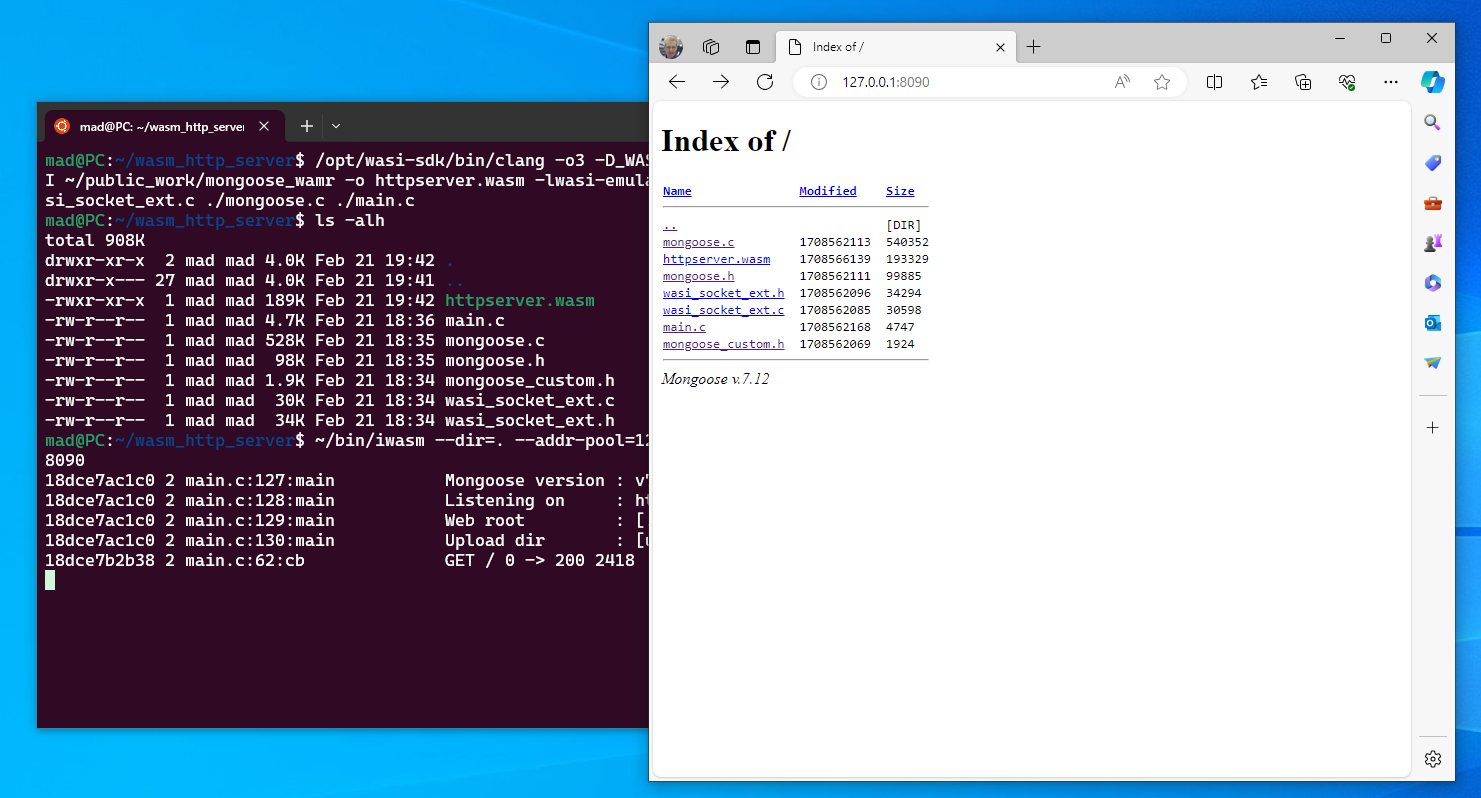
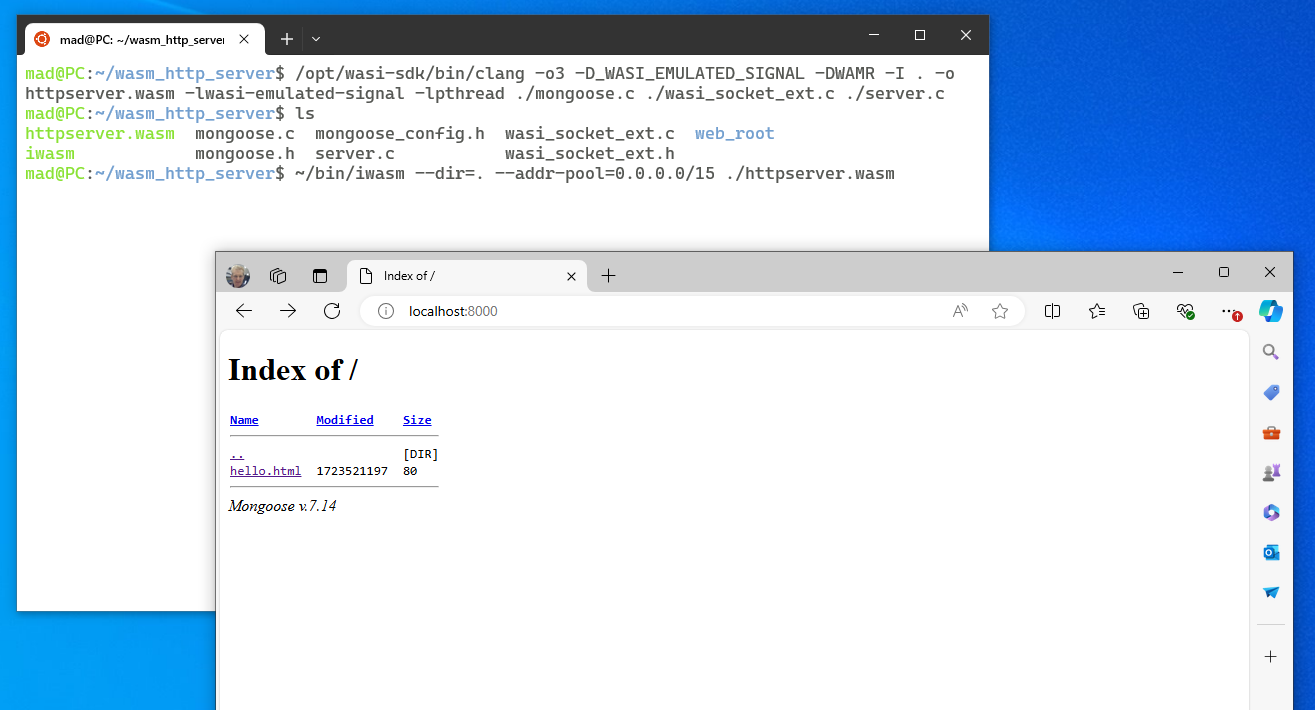
Updates to reflect new Mongoose Project  Updates

diff --git a/mongoose_config.h b/mongoose_config.h
@@ -1,5 +1,5 @@
-#ifndef MONGOOSE_CUSTOM_H_
-#define MONGOOSE_CUSTOM_H_
+#ifndef MONGOOSE_CONFIG_H_
+#define MONGOOSE_CONFIG_H_
 
 /******************************************************************************
  * (c) Copyright 2024 Chris Woods
@@ -78,5 +78,5 @@ extern "C" {
 }
 #endif
 
-#endif// MONGOOSE_CUSTOM_H_
+#endif// MONGOOSE_CONFIG_H_
 

diff --git a/README.md b/README.md
@@ -114,51 +114,73 @@ In order to build a working example http server we're going to need to collect a
   cp ~/mongoose/mongoose.h .
   cp ~/mongoose/mongoose.c .
   ```
-
-* The Mongoose example http server:
-  ```bash
-  cp ~/mongoose/examples/http-server/main.c .
-  ```
-  
-  
-## Updating the `main.c`  
-The Mongoose example http server includes a call to a file operation that WASI doesn't support, we do need to disable this, open up the `main.c` file in your editor of choice and comment out the following four lines, these start at line 107:
+## Creating  `server.c`  
+The Mongoose project used to include an example http server in their repository, however a recent update has removed this. Instead the Mongoose project includes an example HTTP server as a code snippet in their [`readme.md` file](https://github.com/cesanta/mongoose). This is reproduce below for your reference:
 
 ```c
-  // Root directory must not contain double dots. Make it absolute
-  // Do the conversion only if the root dir spec does not contain overrides
-  /* <-- comment out this if statement, realpath not supported
-  if (strchr(s_root_dir, ',') == NULL) {
-    realpath(s_root_dir, path);
-    s_root_dir = path;
+ #include "mongoose.h"   // To build, run: cc main.c mongoose.c
+
+// HTTP server event handler function
+void ev_handler(struct mg_connection *c, int ev, void *ev_data) {
+  if (ev == MG_EV_HTTP_MSG) {
+    struct mg_http_message *hm = (struct mg_http_message *) ev_data;
+    struct mg_http_serve_opts opts = { .root_dir = "./web_root/" };
+    mg_http_serve_dir(c, hm, &opts);
   }
-  */
+}
+
+int main(void) {
+  struct mg_mgr mgr;  // Declare event manager
+  mg_mgr_init(&mgr);  // Initialise event manager
+  mg_http_listen(&mgr, "http://0.0.0.0:8000", ev_handler, NULL);  // Setup listener
+  for (;;) {          // Run an infinite event loop
+    mg_mgr_poll(&mgr, 1000);
+  }
+  return 0;
+}
 ```
 
 ## Building The Server
 Now that everything is ready, we need to build the http server this can be done with the following command:
 
 ```bash
-/opt/wasi-sdk/bin/clang -o3 -D_WASI_EMULATED_SIGNAL -DWAMR -I ./wamr_extra -I . -I ~/public_work/mongoose_wamr -o httpserver.wasm -lwasi-emulated-signal -lpthread -Wl,--allow-undefined ./wasi_soc
-ket_ext.c ./mongoose.c ./main.c
+/opt/wasi-sdk/bin/clang -o3 -D_WASI_EMULATED_SIGNAL -DWAMR -I . -o httpserver.wasm -lwasi-emulated-signal -lpthread ./mongoose.c ./wasi_socket_ext.c ./server.c
 ```
 
-This should produce a `httpserver.wasm` file in your local directory.
+This should produce a `httpserver.wasm` file in your local directory. 
 
+### Creating Content
 
+As you can see from the code above the example webserver needs a `web_root` directory which some content to serve. Therefore we need to do the following steps:
+
+* Create the `web_root` folder with:
+  ```bash
+  mkdir web_root
+  ```
+
+* Create an example file, called `example.html` which contains the following:
+  ```html
+  <html>
+  	<head></head>
+  	<body>
+  		<h1>Hello</h1>
+  		<p>World</p>
+  	</body>
+  </html>
+  ```
+
+  
 
 # Executing WAMR 
 When you execute WAMR you have to tell it at the command line what permissions you will grant the running WebAssembly code. For the example WebServer to work you will need to provide the following command line switches:
 
-* `--dir=.` this tells WAMR to allow the running WASM code to see the current directory
-* `--addr-pool=127.0.0.1/15` tells WAMR to allow the running WASM code to use the IP address for local host
+* `--dir=.` this tells WAMR to allow the running WASM code to see the current directory. **NB:** The Server actually provides a listing of the content of the `web_root` subdirectory.
+* `--addr-pool=0.0.0.0/15` tells WAMR to allow the running WASM code to use the IP address for local host
 
 ```
-~/bin/iwasm --dir=. --addr-pool=127.0.0.1/15 httpserver.wasm -l http://127.0.0.1:8090
+~/bin/iwasm --dir=. --addr-pool=0.0.0.0/15 httpserver.wasm 
 ```
 
-
-
-This should give you a working webserver available on localhost at port 8090.
+This should give you a working webserver available on localhost at port 8000.
 
 ![screencapture](./picture/screencapture.PNG)
